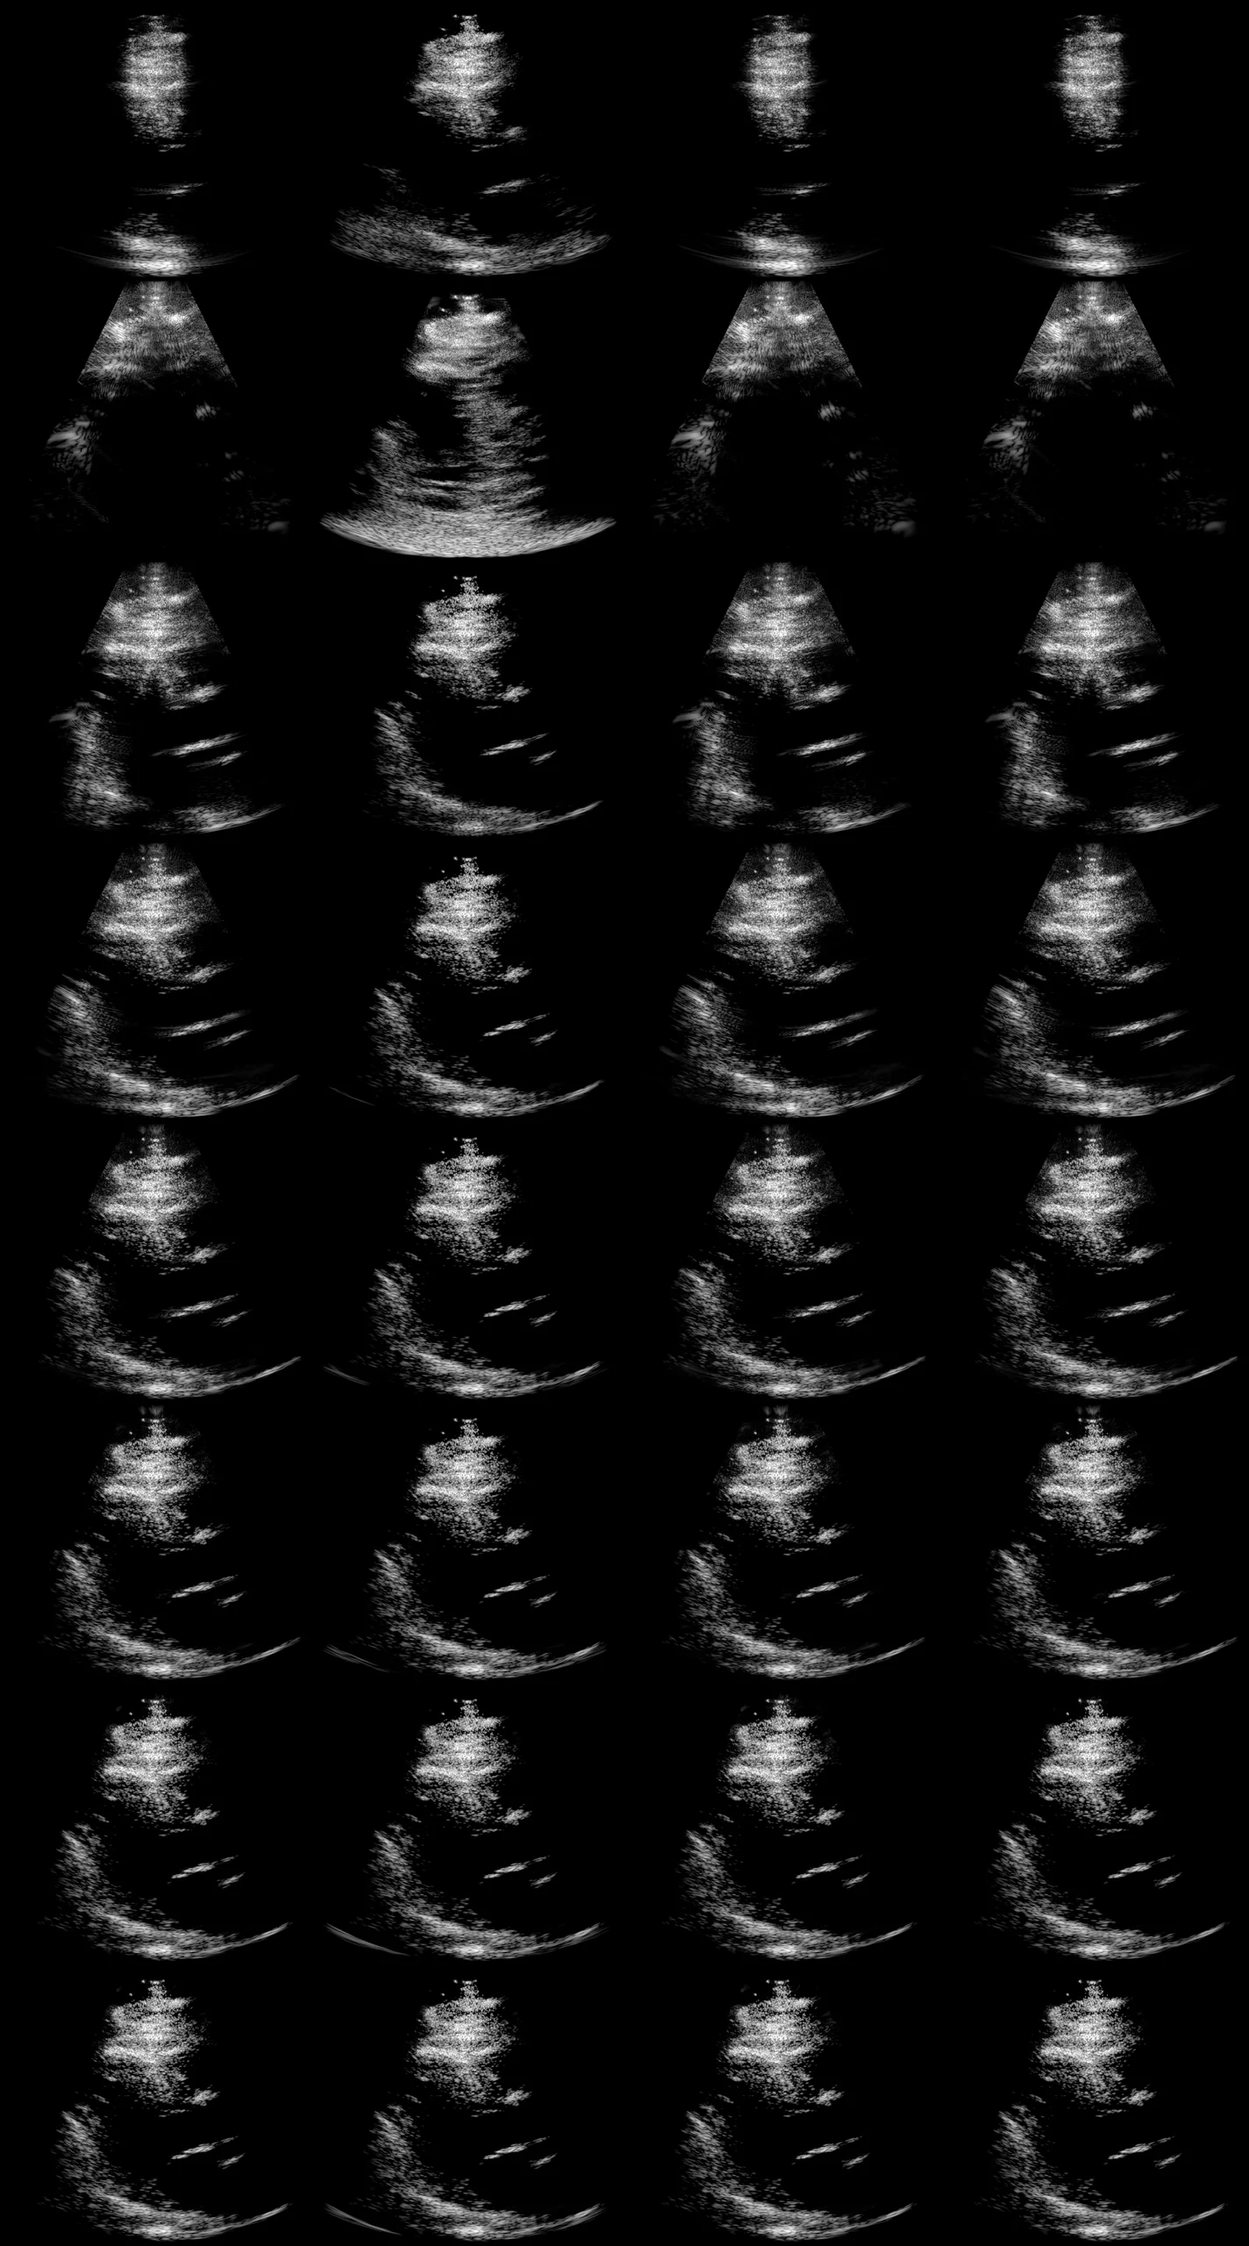
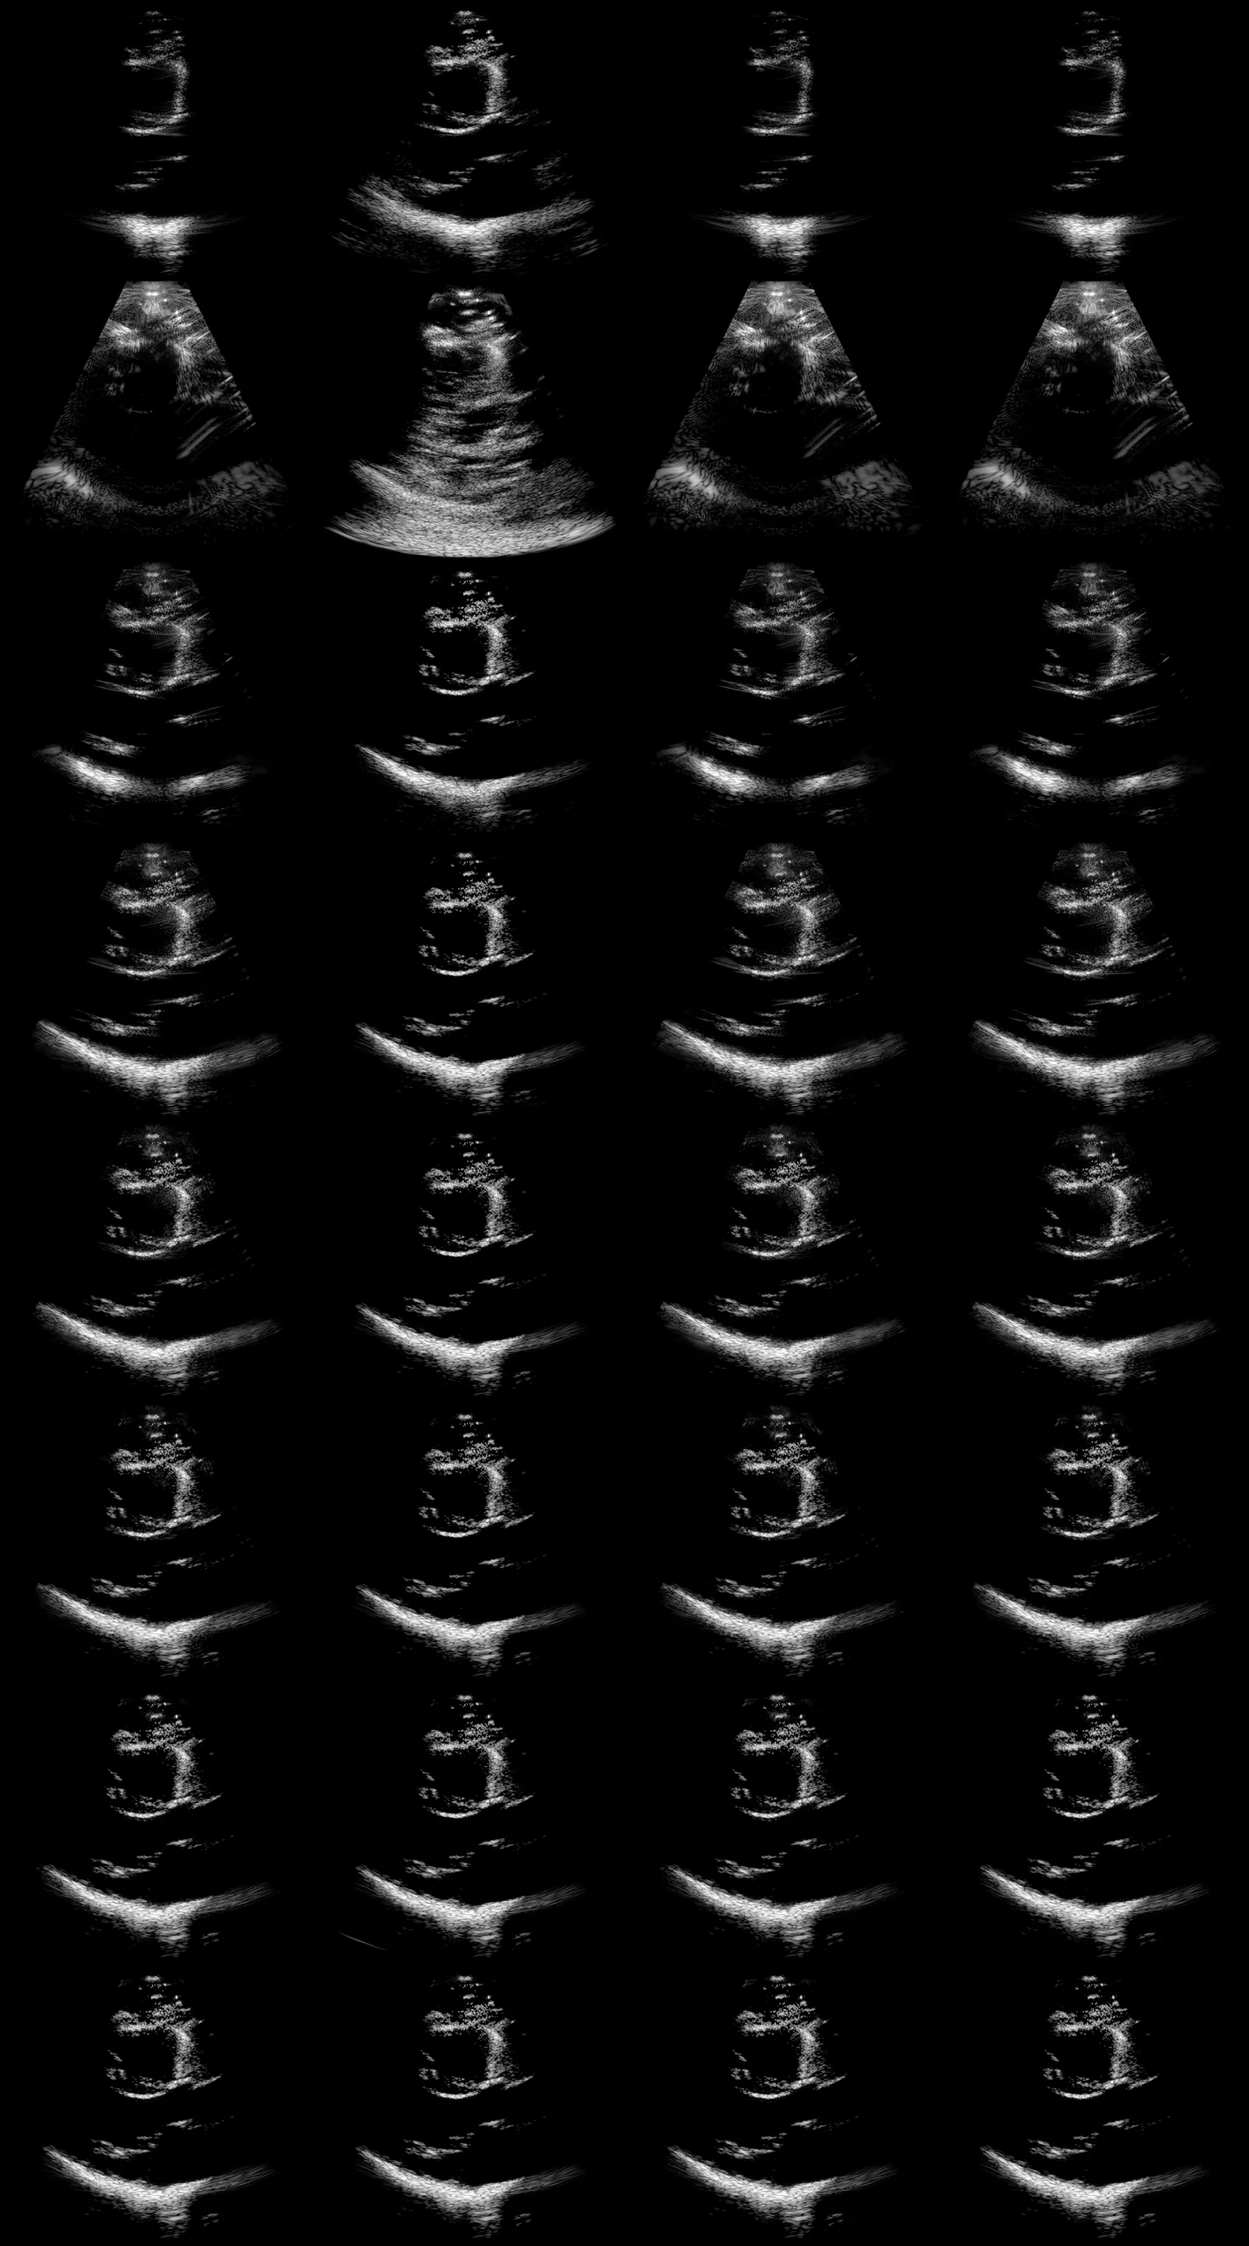
Rework the gallery into an inputs row over a recoveries row
Drop the noiseless ground truth. At the headline receiver floor it is
visually indistinguishable from the complete acquisition beside it, so the
figure was spending a panel on what read as a duplicate; the export no longer
writes that strip.

The remaining five are now grouped by what they are rather than laid out in
one undifferentiated run: the complete multistatic data set and the encoded
measurements on top, the three decodes of those measurements below. The
shorter row is centred under the wider one and both share a tile size, since
drawing the inputs larger than the recoveries would show a difference that is
not in the data.

Tick labels are pinned to where the thumb centre actually lands. A range
input's thumb travels only (track - thumb) px and Chrome's UA sheet adds 2px
of margin, so evenly spaced labels sat up to 2px off their stop; measured
offset is now under 0.01px at all eight.

Subjects 3, 6, 8 and 10 move to frames 14, 34, 43 and 47, which have far
clearer chamber definition than the near-field blobs they replace. Position
in the frame list is the subject number and the crop is pinned, so only those
four subjects' 24 atlases re-encode; the other 36 are byte-identical.

diff --git a/docs/static/js/gallery-viewer.js b/docs/static/js/gallery-viewer.js
@@ -1,8 +1,9 @@
 /* Bayesian REFoCUS - recovery gallery.
 
-   Six B-modes of one scene: the ground truth, the two things that go in, and
-   the three decodes of the encoded acquisition. Three controls move through
-   the E2 grid -- scene, transmit encoding, and the number of transmits Nb.
+   Five B-modes of one subject, in two rows: what goes in (the complete
+   multistatic acquisition, and the encoded measurements the sampler actually
+   sees) above the three decodes of those measurements. Three controls move
+   through the E2 grid -- subject, transmit sequence, and the transmit count Nb.
 
    Assets are WebP sprite atlases (see eval/visualizations/e2_gallery_web.py in
    the research repo). One atlas holds every Nb of every method for one
@@ -10,11 +11,12 @@
    a request; only scene and encoding fetch, and the neighbours of the current
    cell are prefetched so those rarely stall either.
 
-   The six are drawn into ONE canvas rather than six elements, sized to fit the
-   viewport in BOTH axes: the figure is a comparison, so it is worth nothing if
-   the reader has to scroll to see half of it. The internal grid reflows 6x1 ->
-   3x2 -> 2x3 as the screen narrows, and the tile scale is whichever of the
-   width and height budgets binds first.
+   All five are drawn into ONE canvas rather than five elements, sized to fit
+   the viewport in BOTH axes: the figure is a comparison, so it is worth nothing
+   if the reader has to scroll to see half of it. The 2-then-3 split is fixed
+   because it carries the meaning (inputs above, recoveries below), so the tile
+   scale is set by the wider row and whichever of the width and height budgets
+   binds first.
 
    Every tile was written on the same fixed [-50, 0] dB window, so what changes
    between two panels is the recovery and not the display gain. */
@@ -31,17 +33,17 @@
   var BASE = root.dataset.assets || "static/gallery/";
   var TW = M.tile[0], TH = M.tile[1];
 
-  /* Column order of the row, left to right. The first two are frame-only and
-     come from their own strips; the rest are addressed in the sweep atlas by
-     their index in M.methods. */
-  var COLUMNS = [
-    { key: "truth", strip: "truth", label: "ground truth" },
-    { key: "input", strip: "input", label: "full data set" },
-    { key: "adjoint", method: "adjoint", label: "encoded input" },
-    { key: "dps", method: "dps", label: "Bayesian REFoCUS", ours: true },
-    { key: "ramp", method: "ramp", label: "ramp-filtered" },
-    { key: "tikhonov", method: "tikhonov", label: "oracle Tikhonov" }
+  /* Two rows, and the split is the point: what is measured, then what is
+     recovered from it. "input" is frame-only and comes from its own strip; the
+     rest are addressed in the sweep atlas by their index in M.methods. */
+  var ROWS = [
+    [{ key: "input", strip: "input", label: "multistatic data set" },
+     { key: "adjoint", method: "adjoint", label: "measurements" }],
+    [{ key: "tikhonov", method: "tikhonov", label: "oracle Tikhonov" },
+     { key: "dps", method: "dps", label: "Bayesian REFoCUS", ours: true },
+     { key: "ramp", method: "ramp", label: "ramp-filtered adjoint" }]
   ];
+  var NCOL = Math.max.apply(null, ROWS.map(function (r) { return r.length; }));
 
   var ENC_LABEL = {
     focused: "focused", diverging: "diverging", wide: "wide",
@@ -61,7 +63,7 @@
                                                    // from it into the sparse
                                                    // regime that is the point.
   var ready = false;
-  var cols = 6, rows = 1, drawW = 0, drawH = 0;
+  var rows = 2, drawW = 0, drawH = 0;
 
   /* ---- asset loading ----------------------------------------------------
      Only the strips are required to boot. Sweep atlases are fetched per cell
@@ -112,13 +114,6 @@
   var cv = root.querySelector("[data-gal=sheet]");
   var ctx = cv.getContext("2d");
 
-  /* Largest tile a given number of columns allows, within both budgets. */
-  function scaleFor(nc, availW, budgetH) {
-    var nr = Math.ceil(COLUMNS.length / nc);
-    return Math.min((availW - (nc - 1) * GAP) / nc / TW,
-                    ((budgetH - (nr - 1) * GAP_Y) / nr - LABEL_H) / TH);
-  }
-
   function layout() {
     var availW = stage.clientWidth || root.clientWidth;
     var ctlH = controls ? controls.getBoundingClientRect().height : 0;
@@ -126,25 +121,19 @@
     // does not sit flush against the fold.
     var budgetH = Math.max(200, window.innerHeight - ctlH - 150);
 
-    // Pick the arrangement that draws the BIGGEST tile rather than one keyed to
-    // a width breakpoint. Six in a row is width-bound long before it is
-    // height-bound, so on an ordinary laptop it wastes most of the screen and
-    // 3x2 shows each B-mode at nearly twice the size.
-    cols = 6;
-    var best = -1;
-    [6, 3, 2, 1].forEach(function (nc) {
-      var sc = scaleFor(nc, availW, budgetH);
-      if (sc > best) { best = sc; cols = nc; }
-    });
-    rows = Math.ceil(COLUMNS.length / cols);
-
+    rows = ROWS.length;
+    // Both rows share one tile size -- a comparison in which the inputs were
+    // drawn larger than the recoveries would be reading a difference that is
+    // not in the data -- so the widest row sets the width budget.
+    var scale = Math.min((availW - (NCOL - 1) * GAP) / NCOL / TW,
+                         ((budgetH - (rows - 1) * GAP_Y) / rows - LABEL_H) / TH);
     // Never draw a tile larger than the pixels behind it: past 1:1 the atlas
     // is only being interpolated, which costs sharpness and buys no detail.
-    var scale = Math.min(best, 1);
+    scale = Math.min(scale, 1);
     drawW = Math.max(1, Math.floor(TW * scale));
     drawH = Math.max(1, Math.floor(TH * scale));
 
-    var cssW = cols * drawW + (cols - 1) * GAP;
+    var cssW = NCOL * drawW + (NCOL - 1) * GAP;
     var cssH = rows * (drawH + LABEL_H) + (rows - 1) * GAP_Y;
 
     var dpr = Math.min(window.devicePixelRatio || 1, 2);
@@ -170,23 +159,31 @@
     ctx.textBaseline = "alphabetic";
     ctx.imageSmoothingQuality = "high";
 
-    COLUMNS.forEach(function (col, i) {
-      var s = sourceFor(col);
-      var x = (i % cols) * (drawW + GAP);
-      var y = Math.floor(i / cols) * (drawH + LABEL_H + GAP_Y);
+    var full = NCOL * drawW + (NCOL - 1) * GAP;
+    ROWS.forEach(function (row, r) {
+      // A row with fewer tiles is centred under the wider one rather than left
+      // ragged, so the two rows read as one block.
+      var rowW = row.length * drawW + (row.length - 1) * GAP;
+      var x0 = Math.round((full - rowW) / 2);
+      var y = r * (drawH + LABEL_H + GAP_Y);
 
-      ctx.fillStyle = col.ours ? ACCENT : FAINT;
-      ctx.fillText(col.label.toUpperCase(), x, y + LABEL_H - 5);
+      row.forEach(function (col, i) {
+        var s = sourceFor(col);
+        var x = x0 + i * (drawW + GAP);
 
-      if (!s) return;
-      ctx.drawImage(s[0], s[1], s[2], TW, TH, x, y + LABEL_H, drawW, drawH);
-      // The row's whole point is a comparison against one column, so that
-      // column is outlined rather than left to be found by reading labels.
-      if (col.ours) {
-        ctx.strokeStyle = ACCENT_DIM;
-        ctx.lineWidth = 1;
-        ctx.strokeRect(x + 0.5, y + LABEL_H + 0.5, drawW - 1, drawH - 1);
-      }
+        ctx.fillStyle = col.ours ? ACCENT : FAINT;
+        ctx.fillText(col.label.toUpperCase(), x, y + LABEL_H - 5);
+
+        if (!s) return;
+        ctx.drawImage(s[0], s[1], s[2], TW, TH, x, y + LABEL_H, drawW, drawH);
+        // The figure's whole point is a comparison against one panel, so that
+        // panel is outlined rather than left to be found by reading labels.
+        if (col.ours) {
+          ctx.strokeStyle = ACCENT_DIM;
+          ctx.lineWidth = 1;
+          ctx.strokeRect(x + 0.5, y + LABEL_H + 0.5, drawW - 1, drawH - 1);
+        }
+      });
     });
   }
 
@@ -268,12 +265,21 @@
   });
 
   /* Tick labels under the slider, so the eight sampled counts are legible as
-     the powers of two they are rather than a bare 0-7 position. */
+     the powers of two they are rather than a bare 0-7 position.
+
+     Each label is pinned to where the THUMB CENTRE actually lands, not to an
+     even division of the track. A range input's thumb travels only
+     (track - thumb) px, so evenly spaced labels drift away from the thumb
+     towards both ends -- most visibly at 1 and 80. The CSS turns --i into
+     calc(thumb/2 + (100% - thumb) * i/(n-1)). */
   var ticks = root.querySelector("[data-gal=ticks]");
-  M.nb.forEach(function (nb) {
-    var s = document.createElement("span");
-    s.textContent = nb;
-    ticks.appendChild(s);
+  var last = M.nb.length - 1;
+  M.nb.forEach(function (nb, i) {
+    var el = document.createElement("span");
+    el.textContent = nb;
+    el.style.setProperty("--i", i);
+    el.style.setProperty("--n", last);
+    ticks.appendChild(el);
   });
 
   window.addEventListener("resize", layout);
@@ -281,7 +287,14 @@
   /* ---- start ------------------------------------------------------------ */
 
   function boot() {
-    Promise.all([load(M.truth), load(M.input), load(sweepName(scene, enc))])
+    // Every frame-only strip named by a row, plus this cell's atlas.
+    var strips = [];
+    ROWS.forEach(function (row) {
+      row.forEach(function (c) {
+        if (c.strip && strips.indexOf(M[c.strip]) < 0) strips.push(M[c.strip]);
+      });
+    });
+    Promise.all(strips.concat([sweepName(scene, enc)]).map(load))
       .then(function () {
         ready = true;
         root.classList.add("is-ready");

diff --git a/docs/static/gallery/manifest.js b/docs/static/gallery/manifest.js
@@ -1,1 +1,1 @@
-window.E2_MANIFEST={"tile":[356,320],"cols":4,"rows":8,"frames":[0,5,10,15,20,25,30,35,40,45],"encodings":["focused","diverging","wide","pw","hadamard","random"],"nb":[1,2,4,8,16,32,64,80],"methods":["adjoint","dps","ramp","tikhonov"],"sweeps":["s00_focused.webp","s00_diverging.webp","s00_wide.webp","s00_pw.webp","s00_hadamard.webp","s00_random.webp","s01_focused.webp","s01_diverging.webp","s01_wide.webp","s01_pw.webp","s01_hadamard.webp","s01_random.webp","s02_focused.webp","s02_diverging.webp","s02_wide.webp","s02_pw.webp","s02_hadamard.webp","s02_random.webp","s03_focused.webp","s03_diverging.webp","s03_wide.webp","s03_pw.webp","s03_hadamard.webp","s03_random.webp","s04_focused.webp","s04_diverging.webp","s04_wide.webp","s04_pw.webp","s04_hadamard.webp","s04_random.webp","s05_focused.webp","s05_diverging.webp","s05_wide.webp","s05_pw.webp","s05_hadamard.webp","s05_random.webp","s06_focused.webp","s06_diverging.webp","s06_wide.webp","s06_pw.webp","s06_hadamard.webp","s06_random.webp","s07_focused.webp","s07_diverging.webp","s07_wide.webp","s07_pw.webp","s07_hadamard.webp","s07_random.webp","s08_focused.webp","s08_diverging.webp","s08_wide.webp","s08_pw.webp","s08_hadamard.webp","s08_random.webp","s09_focused.webp","s09_diverging.webp","s09_wide.webp","s09_pw.webp","s09_hadamard.webp","s09_random.webp"],"truth":"truth.webp","input":"input.webp","dynamic_range_db":[-50.0,0.0],"source_shape":[1039,1470],"crop":[0,991,184,1286],"n_tx_total":80};
+window.E2_MANIFEST={"tile":[356,320],"cols":4,"rows":8,"frames":[0,5,14,15,20,34,30,43,40,47],"encodings":["focused","diverging","wide","pw","hadamard","random"],"nb":[1,2,4,8,16,32,64,80],"methods":["adjoint","dps","ramp","tikhonov"],"sweeps":["s00_focused.webp","s00_diverging.webp","s00_wide.webp","s00_pw.webp","s00_hadamard.webp","s00_random.webp","s01_focused.webp","s01_diverging.webp","s01_wide.webp","s01_pw.webp","s01_hadamard.webp","s01_random.webp","s02_focused.webp","s02_diverging.webp","s02_wide.webp","s02_pw.webp","s02_hadamard.webp","s02_random.webp","s03_focused.webp","s03_diverging.webp","s03_wide.webp","s03_pw.webp","s03_hadamard.webp","s03_random.webp","s04_focused.webp","s04_diverging.webp","s04_wide.webp","s04_pw.webp","s04_hadamard.webp","s04_random.webp","s05_focused.webp","s05_diverging.webp","s05_wide.webp","s05_pw.webp","s05_hadamard.webp","s05_random.webp","s06_focused.webp","s06_diverging.webp","s06_wide.webp","s06_pw.webp","s06_hadamard.webp","s06_random.webp","s07_focused.webp","s07_diverging.webp","s07_wide.webp","s07_pw.webp","s07_hadamard.webp","s07_random.webp","s08_focused.webp","s08_diverging.webp","s08_wide.webp","s08_pw.webp","s08_hadamard.webp","s08_random.webp","s09_focused.webp","s09_diverging.webp","s09_wide.webp","s09_pw.webp","s09_hadamard.webp","s09_random.webp"],"input":"input.webp","dynamic_range_db":[-50.0,0.0],"source_shape":[1039,1470],"crop":[0,991,184,1286],"n_tx_total":80};

diff --git a/docs/static/css/style.css b/docs/static/css/style.css
@@ -397,7 +397,7 @@ footer p { margin: 0 0 0.5rem; }
    The six B-modes are one canvas the viewer sizes to the viewport, so the
    only thing this file owns below the controls is centring it. */
 
-.gal { margin: 0; }
+.gal { margin: 0; --thumb: 14px; }
 
 /* ---- controls ---- */
 
@@ -425,6 +425,10 @@ footer p { margin: 0 0 0.5rem; }
 .gal-slider {
   display: block;
   width: 100%;
+  /* Chrome's UA sheet puts 2px of margin on a range input, which offsets the
+     thumb track from the tick track by exactly that much. Zero it so the two
+     share an origin and the tick maths below lands on the thumb. */
+  margin: 0;
   -webkit-appearance: none;
   appearance: none;
   height: 3px;
@@ -435,7 +439,7 @@ footer p { margin: 0 0 0.5rem; }
 .gal-slider:disabled { opacity: 0.4; cursor: default; }
 .gal-slider::-webkit-slider-thumb {
   -webkit-appearance: none;
-  width: 15px; height: 15px;
+  width: var(--thumb); height: var(--thumb);
   border-radius: 50%;
   background: var(--text);
   border: 2px solid var(--bg);
@@ -443,7 +447,8 @@ footer p { margin: 0 0 0.5rem; }
   cursor: grab;
 }
 .gal-slider::-moz-range-thumb {
-  width: 13px; height: 13px;
+  width: var(--thumb); height: var(--thumb);
+  box-sizing: border-box;
   border-radius: 50%;
   background: var(--text);
   border: 2px solid var(--bg);
@@ -451,19 +456,25 @@ footer p { margin: 0 0 0.5rem; }
 }
 .gal-slider:focus-visible { outline: 2px solid var(--accent-dim); outline-offset: 4px; }
 
-/* The eight sampled counts are powers of two, so the ticks are laid out on
-   the slider's own even spacing and read as labels for the detents. */
+/* Each tick sits exactly under the thumb position it names. The thumb centre
+   travels from thumb/2 to (track - thumb/2), NOT from 0 to 100%, so spacing
+   the labels evenly across the track leaves them drifting off the thumb at
+   both ends. --i and --n are set per label by the viewer. */
 .gal-ticks {
-  display: flex;
-  justify-content: space-between;
+  position: relative;
+  height: 1em;
   margin-top: 0.35rem;
   font-family: var(--font-mono);
   font-size: 0.64rem;
   color: var(--faint);
 }
-.gal-ticks > span { flex: 1 1 0; text-align: center; }
-.gal-ticks > span:first-child { text-align: left; }
-.gal-ticks > span:last-child { text-align: right; }
+.gal-ticks > span {
+  position: absolute;
+  top: 0;
+  left: calc(var(--thumb) / 2 + (100% - var(--thumb)) * var(--i) / var(--n));
+  transform: translateX(-50%);
+  white-space: nowrap;
+}
 
 .gal-readout {
   margin: 0.45rem 0 0;

diff --git a/docs/index.html b/docs/index.html
@@ -143,13 +143,13 @@
         </div>
 
         <div class="gal-ctl">
-          <span class="gal-label" id="gal-enc-label">encoding</span>
+          <span class="gal-label" id="gal-enc-label">transmit</span>
           <div class="gal-chips" data-gal="enc" role="group"
                aria-labelledby="gal-enc-label"></div>
         </div>
 
         <div class="gal-ctl">
-          <span class="gal-label" id="gal-scene-label">scene</span>
+          <span class="gal-label" id="gal-scene-label">subject</span>
           <div class="gal-chips gal-chips-num" data-gal="scene" role="group"
                aria-labelledby="gal-scene-label"></div>
         </div>
